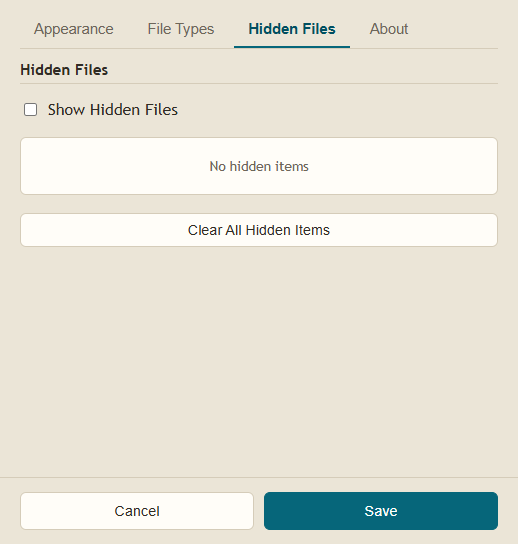
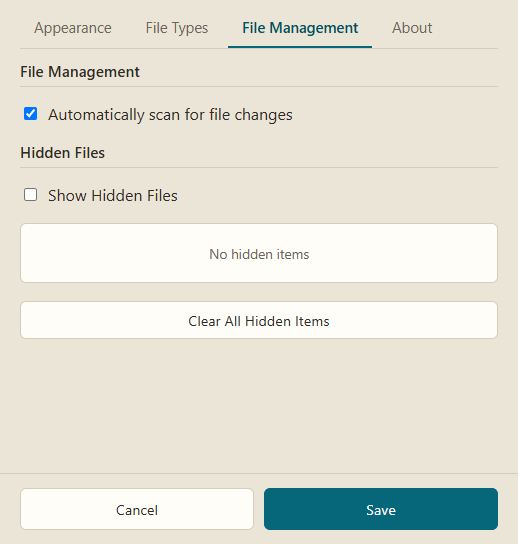
fix: make screenshot capture work with Bun (#19)
* fix: capture application screenshots at 1440px
* fix: set screenshot viewport dimensions explicitly
* chore: run screenshot capture with Bun
* fix: update settings screenshot tab selector
* chore: update screenshots

diff --git a/scripts/capture-screenshots.js b/scripts/capture-screenshots.js
@@ -4,13 +4,14 @@ const path = require('path');
 const { _electron: electron } = require('playwright');
 
 const imagesDirectory = path.join(__dirname, '..', 'images');
+const mainWindowSize = { width: 1440, height: 900 };
 const screenshotFiles = [
   ['app-without-details.png', 'app1.png'],
   ['app-with-details.png', 'app2.png'],
   ['right-click-menu.png', 'right-click.png'],
   ['settings-appearance.png', 'settings1.png'],
   ['settings-file-types.png', 'settings2.png'],
-  ['settings-hidden-files.png', 'settings3.png'],
+  ['settings-file-management.png', 'settings3.png'],
   ['settings-about.png', 'settings4.png']
 ];
 
@@ -148,6 +149,7 @@ async function captureScreenshots() {
 
     const mainWindow = await app.firstWindow();
     const cards = mainWindow.locator('#grid .card');
+    await mainWindow.setViewportSize(mainWindowSize);
     await waitForItems(mainWindow);
     const displayedFolder = await mainWindow.locator('#downloads-path').textContent();
     if (path.resolve(displayedFolder) !== path.resolve(demoFolder)) {
@@ -177,7 +179,7 @@ async function captureScreenshots() {
 
     for (const [tabName, panelId, screenshotName] of [
       ['File Types', 'file-types-panel', 'settings-file-types.png'],
-      ['Hidden Files', 'hidden-files-panel', 'settings-hidden-files.png'],
+      ['File Management', 'file-management-panel', 'settings-file-management.png'],
       ['About', 'about-panel', 'settings-about.png']
     ]) {
       await settingsWindow.getByRole('tab', { name: tabName }).click();

diff --git a/src/renderer/settings.html b/src/renderer/settings.html
@@ -452,7 +452,7 @@
               <dt>License</dt>
               <dd>MIT</dd>
               <dt>GitHub</dt>
-              <dd><a href="https://github.com/wi-ry/" target="_blank" rel="noopener noreferrer">https://github.com/wi-ry/</a></dd>
+              <dd><a href="https://github.com/wi-ry/PrintaView/" target="_blank" rel="noopener noreferrer">https://github.com/wi-ry/PrintaView/</a></dd>
             </dl>
           </div>
         </div>
